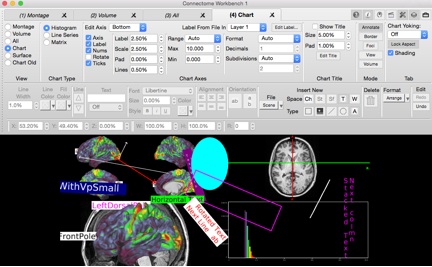
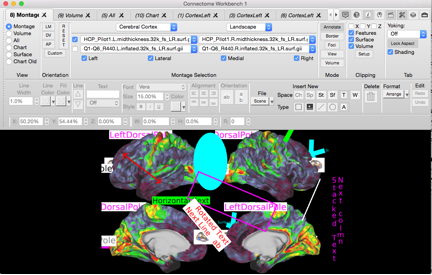
WB-668 Titling Columns in Tile Tabs: Updated Help Documentation to reflect changes to GUI for new Tile Tabs Dialog updates.

diff --git a/src/Resources/Help/HelpFiles/Menus/View_Menu/Tile_Tabs_Configuration/Tile_Tabs_Configuration.html b/src/Resources/Help/HelpFiles/Menus/View_Menu/Tile_Tabs_Configuration/Tile_Tabs_Configuration.html
@@ -20,6 +20,8 @@
 
 
 
+
+
             Tabs</b></u></a> in the <a
         href="../../../Workbench_Window/Viewing_Area/Viewing_Area.html"><u><b>Viewing
 
@@ -42,38 +44,192 @@
 
 
 
+
+
             Area</b></u></a>.&nbsp; <br>
       <br>
+      <img src="Tile_Tabs_Configuration.png" alt="" width="805"
+        height="520"><br>
     </font>
     <h2><font face="Calibri">Tile Tabs Configuration in Workbench Window<br>
       </font></h2>
     <font face="Calibri">This section contains the tile tabs
-      configuration for the selected Workbench Window.&nbsp; When a
-      scene is saved with Tile Tabs enabled, the selected configuration
-      is saved to the scene and is restored when the scene is displayed.<br>
+      configuration for the selected Workbench Window.&nbsp; </font><font
+      face="Calibri"><font face="Calibri">If a Scene is saved, the
+        selected Configuration is saved to the Scene and is restored
+        when the Scene is displayed.<br>
+        <br>
+      </font></font><font face="Calibri"></font> <b>Workbench Window</b>&nbsp;
+    Selects the window for control of the window's Tile Tabs
+    Configuration <br>
+    <font face="Calibri"><br>
     </font>
+    <h3><font face="Calibri">Layout of Tabs in a Tile Tabs Configuration</font></h3>
+    &nbsp;<font face="Calibri">A Tile Tabs Configuration is a grid-type
+      layout that displays all Tabs in the Window.&nbsp; Regardless of
+      the Configuration Type, the first tab will be in the top left
+      corner with subsequent tabs appearing to the right and wrapping to
+      the next row when a row is filled.&nbsp; <br>
+    </font><br>
+    <h3>Configuration Types<br>
+    </h3>
     <ul>
-      <li><b>Workbench Window</b> - Selects the Window for adjusting the
-        Tile Tabs Configuration<br>
-      </li>
       <li><font face="Calibri"><b>Au</b><b>tomat</b><b>ic</b><b>
-            Configuration </b>- When selected, Workbench will adjust
-          the number of rows and columns so that all tabs are displayed.</font></li>
+            Configuration </b>- This is the default selection and
+          Workbench will adjust the number of rows and columns so that
+          all tabs are displayed.&nbsp; </font><font face="Calibri"><font
+            face="Calibri">Use Custom when Automatic does not produce
+            the desired layout of tabs.</font> </font></li>
       <li><font face="Calibri"><b>Custom Con</b><b>figuration</b> -
-          Allows the user to set the number of rows/columns and their
-          stretch factors.<br>
+          Allows the user to customize the configuration of the Tile
+          Tabs layout including number of rows, number of columns,
+          heights of the rows, and widths of the columns.&nbsp; If the
+          Custom Configuration contains insufficient rows and columns
+          for the Window's Tabs, some tabs will not be displayed.&nbsp;
+          Conversely, there will be empty space at the bottom when the
+          Tile Tabs Configuration contains space for more tabs than are
+          currently in the Window.<br>
         </font></li>
-      <li><font face="Calibri"><b>Dimensions (Rows / Columns)</b> -
-          Number of Rows and Columns in the Custom Configuration</font></li>
-      <li><font face="Calibri"><b>Stretch Factors</b> - The Stretch
-          Factors function as weights and are used to allocate space
-          assigned to rows and columns.&nbsp; For example, a row with a
-          stretch factor of 2 is double the height of a row with a
-          stretch factor of 1.&nbsp; The percentage values indicate the
-          height (width) that a row (column) occupies in the graphics
-          region. </font><br>
+    </ul>
+    <h3><font face="Calibri">Custom Configuration Rows/Columns<br>
+      </font></h3>
+    <h3> </h3>
+    <ul>
+      <li><font face="Calibri"><b>Index</b> - The index of the row or
+          column.<br>
+        </font></li>
+      <li><font face="Calibri"><b>Content</b> - The content of the row
+          or column chosen from Space (empty space for used for
+          Annotations in "Spacer Coordinate Space") or Tab (the Window's
+          Browser Tabs).<br>
+        </font></li>
+      <li><font face="Calibri"><b>Type</b> - The type of 'stretching'
+          chosen from Percent and Weight.<br>
+        </font></li>
+      <li><font face="Calibri"><b>Stretch</b> - The stretching
+          value.&nbsp; When the Type is Percent this value is a
+          percentage and when the Type is weight it is the weight for
+          this row/column.<br>
+        </font></li>
+    </ul>
+    <h3> Explanation of Stretching</h3>
+    <br>
+    The space allocated to a row is determined by a combination of the
+    Stretching Type and the Stretching Value.&nbsp; (Note that row and
+    column stretching function identically) as described below.<br>
+    <h4>Percentage Stretching Type</h4>
+    When a row's Type is set to Percentage, that row is allocated the
+    associated Percentage value of the window's height.&nbsp; Thus, if
+    the row's Percentage Height is 20% and the Window is 1000 pixels in
+    height, the row will be 200 pixels in height.&nbsp; The Percentage
+    value for each row should be in the range 0% to 100%.&nbsp; If ALL
+    rows use a Percentage height, wb_view does not verify that the sum
+    of the row percentages is 100%.&nbsp; Therefore, if ALL rows use a
+    Percentage height and the sum of the Percentage is less than 100%,
+    there will be empty space at the bottom of the window and if greater
+    than 100%, rows at the bottom may not visible.<br>
+    <br>
+    <h5>Example of Percentage Stretching</h5>
+    <ul>
+      <li>Row 1: 20%</li>
+      <li>Row 2: 50%</li>
+      <li>Row 3: 30%</li>
+    </ul>
+    <p>Result for a Window 1000 pixels in height:<br>
+    </p>
+    <ul>
+      <li>Row 1 Height: 200 pixels (20% of 1000)</li>
+      <li>Row 2 Height: 500 pixels (50% of 1000)</li>
+      <li>Row 3 Height: 300 pixels (30% of 1000)<br>
       </li>
     </ul>
+    <h4><br>
+    </h4>
+    <h4>Weighted Stretching Type</h4>
+    When a row's Type is set to Weight, the Height of the row is
+    affected by Stretching Values of all Rows with the Stretching Type
+    set to Weight.&nbsp; To determine the height of the a row, the
+    weights from all rows are summed and the row's weight is divided by
+    the sum.&nbsp; This result (row's weight divided by sum) becomes the
+    percentage of the window's height allocated to the row.<br>
+    <br>
+    <h5>Example of Weighted Stretching</h5>
+    <ul>
+      <li>Row 1: 1.0</li>
+      <li>Row 2: 2.0</li>
+      <li>Row 3: 1.0</li>
+    </ul>
+    <p>Result for a Window 1000 pixels in height (Note: sum of weights
+      is 4.0):<br>
+    </p>
+    <ul>
+      <li>Row 1 Height: 250 pixels&nbsp;&nbsp; ((1.0 / 4.0) * 1000 =
+        250)<br>
+      </li>
+      <li>Row 2 Height: 500 pixels &nbsp; ((2.0 / 4.0) * 1000 = 500)</li>
+      <li>Row 3 Height: 250 pixels&nbsp;&nbsp; ((1.0 / 4.0) * 1000 =
+        250)</li>
+    </ul>
+    <br>
+    <h4>Combination of Percentage and Weighted Stretching</h4>
+    When both Percentage and Weighted Stretching are used, rows with
+    Percentage stretching are assigned their requested height percentage
+    and any remaining space is allocated to rows with weighted
+    Stretching.<br>
+    <br>
+    <h5>Example of Percentage and Weighted Stretching</h5>
+    <ul>
+      <li>Row 1: Percentage, 20%</li>
+      <li>Row 2: Percentage, 30%</li>
+      <li>Row 3: Weighted, 1.0</li>
+      <li>Row 4: Weighted, 2.0</li>
+    </ul>
+    <p>Result for a Window 1000 pixels in height (Note: Sum of
+      Percentages is 50% and Sum of Weights is 3.0):<br>
+    </p>
+    <ul>
+      <li>Row 1 Height: 200 pixels (20% of 1000)</li>
+      <li>Row 2 Height: 300 pixels (30% of 1000)</li>
+      <li>Row 3 Height: 166 pixels ((1.0 / 3.0) * 50% * 1000)</li>
+      <li>Row 4 Height: 334 pixels ((2.0 / 3.0) * 50% * 1000)</li>
+    </ul>
+    Now Suppose a 5th row is added with a Weight of 1.0 (the Sum of
+    Weights is 4.0).&nbsp; Notice that the Percentage Type rows remain
+    the same height and the that the Weighted Type rows shrink in height
+    to accommodate the new row:<br>
+    <ul>
+      <li>Row 1 Height: 200 pixels (20% of 1000)</li>
+      <li>Row 2 Height: 300 pixels (30% of 1000)</li>
+      <li>Row 3 Height: 125 pixels ((1.0 / 4.0) * 50% * 1000)</li>
+      <li>Row 4 Height: 250 pixels ((2.0 / 4.0) * 50% * 1000)</li>
+      <li>Row 5 Height: 125 pixels ((1.0 / 4.0) * 50% * 1000)<br>
+      </li>
+    </ul>
+    <h3>Summary of Percentage and Weighted Stretching</h3>
+    <p>The advantage of using Percentage stretching is that the row will
+      be allocated the requested percentage of the window's
+      height.&nbsp; The disadvantage of Percentage Stretching is that if
+      all rows use Percentage Stretching, and a row is added or removed,
+      the user will need to adjust the stretching percentages to ensure
+      all rows are visible (when a row is added) or to remove empty
+      space (when a row is removed).<br>
+    </p>
+    <p>The advantage of Weighted stretching is that all of the vertical
+      space will be used and the available space is automatically
+      reallocated when a row is added or removed.&nbsp; The disadvantage
+      is that if rows use different weights, calculations are required
+      to get the desired row heights.<br>
+    </p>
+    <p>In some instances using both Percentage and Weighted Stretching
+      may be best. &nbsp; One such instance is when the first row's
+      Content is set to Spacer and Annotation are added to the Spacer
+      Row for use as Column Titles.&nbsp; In this case, the
+      recommendation is to use Percentage for this Row and Weight for
+      the Rows below containing the Brain Models.&nbsp; As Rows for
+      Brain Models are added as removed, the Column Titles will remain
+      the same size and the Rows containing the Brain Models will occupy
+      all of the remaining vertical space.<br>
+    </p>
     <h2><font face="Calibri">User Configuration</font></h2>
     <font face="Calibri"> The User Configuration contains Tile Tabs
       Configurations that have been created by the user.&nbsp; These
@@ -88,7 +244,7 @@
       <li><font face="Calibri"><b>Delete</b> - Click this button to
           delete the selected User Configuration</font></li>
     </ul>
-    <h2><font face="Calibri">Copy and Load Push Buttons</font></h2>
+    <h2><font face="Calibri">Replace and Load Push Buttons</font></h2>
     <ul>
       <li><font face="Calibri"><b>Replace</b> - Replaces the selected
           User Configuration with the content of the Custom
@@ -101,8 +257,7 @@
     <blockquote>
       <ul>
       </ul>
-      <img alt="" src="Tile_Tabs_Configuration.png" width="842"
-        height="423"><br>
+      <br>
       <br>
     </blockquote>
     <br>
